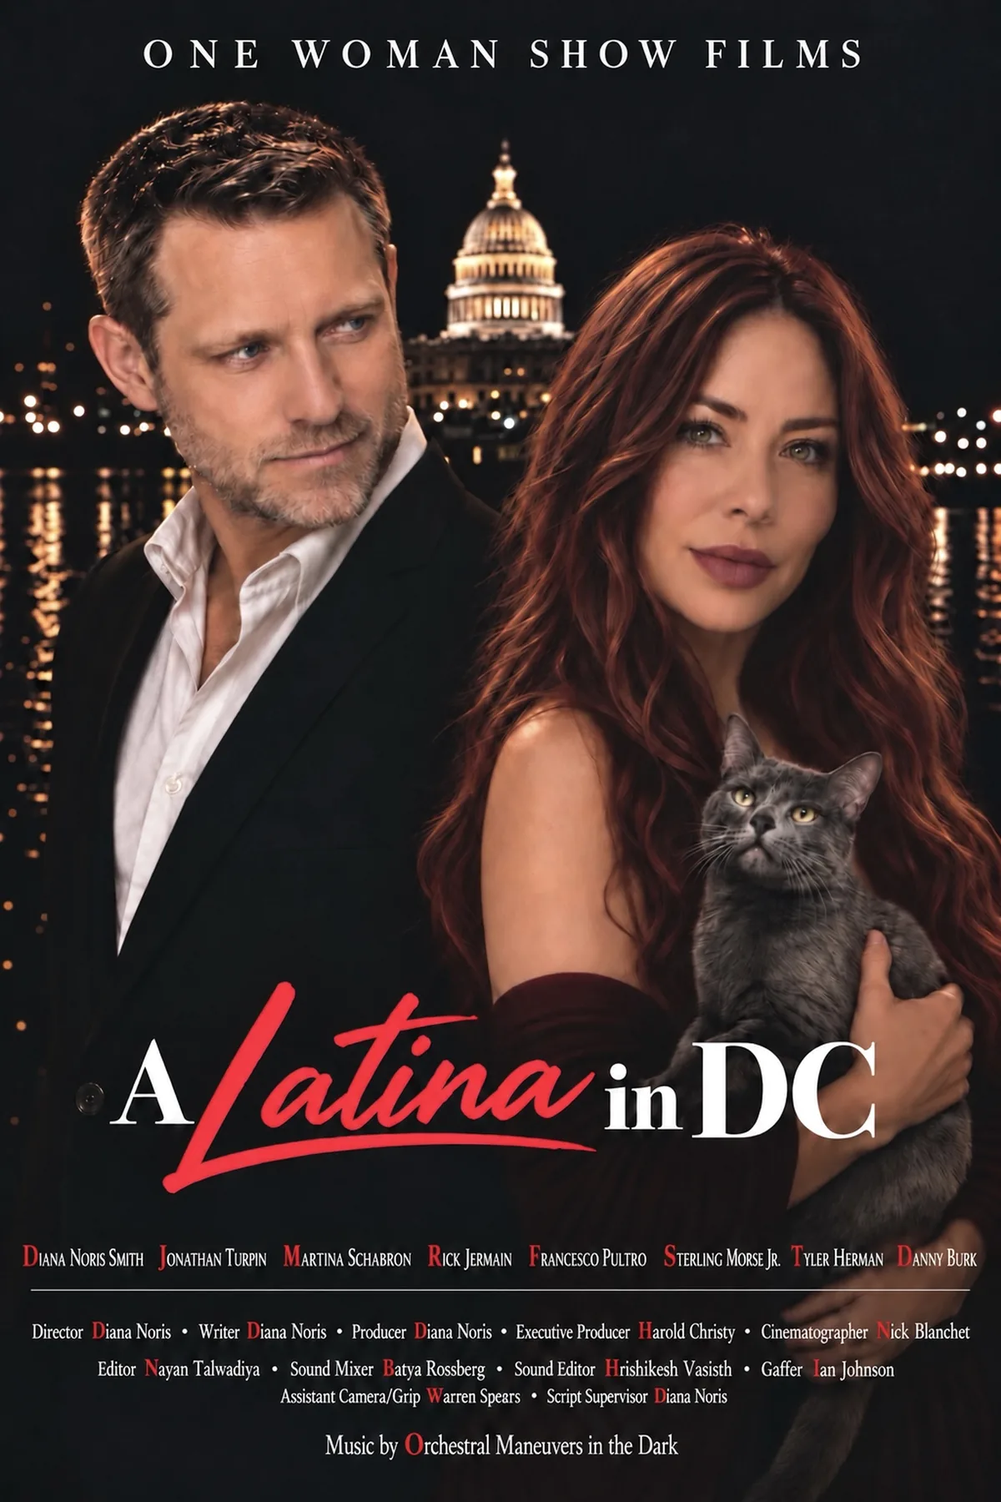
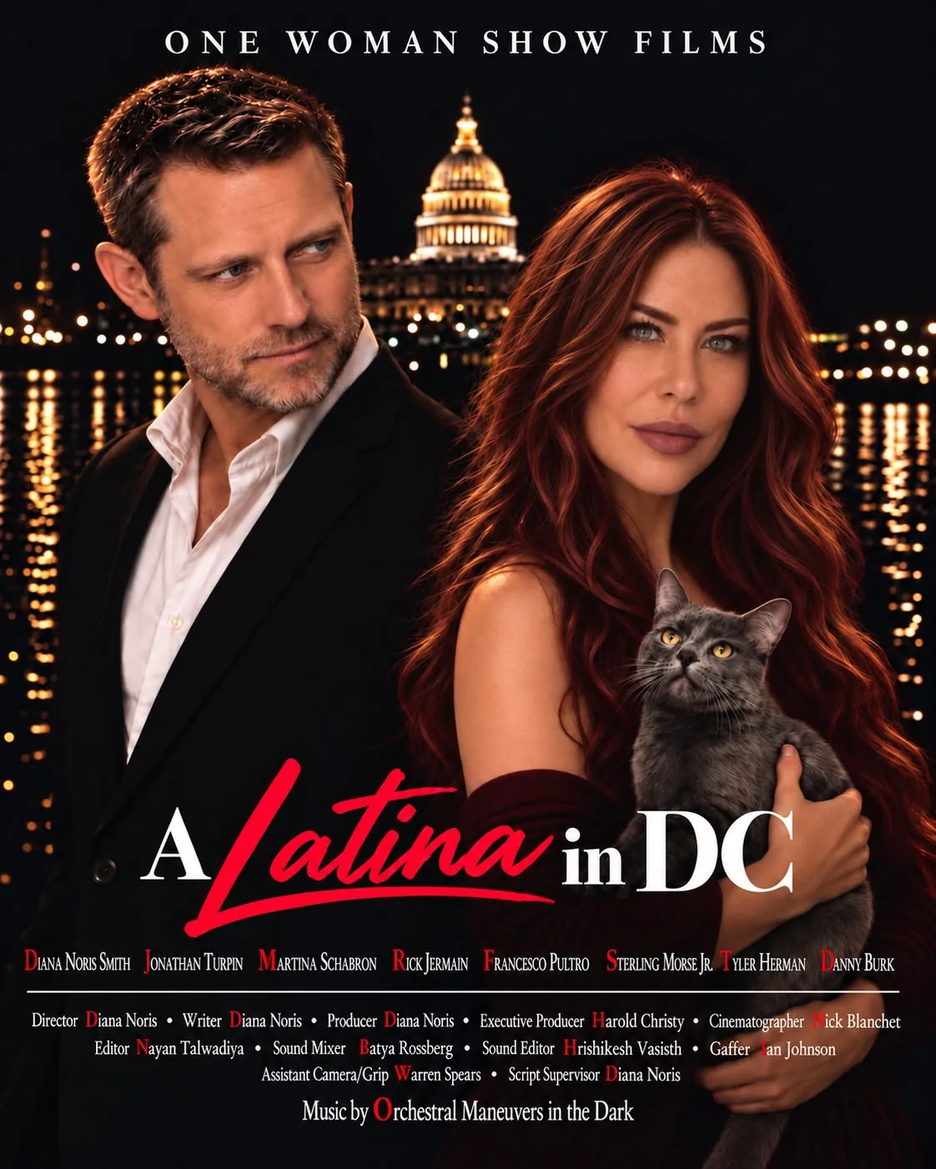
Film: nuevo póster oficial de A Latina in DC (colores correctos)

diff --git a/site/es/cine/index.html b/site/es/cine/index.html
@@ -22,7 +22,7 @@
 <link rel="preconnect" href="https://fonts.googleapis.com">
 <link rel="preconnect" href="https://fonts.gstatic.com" crossorigin>
 <link rel="stylesheet" href="https://fonts.googleapis.com/css2?family=Alumni+Sans:wght@400;600&family=DM+Sans:wght@400;500;700&family=Inter:wght@300;400;500&family=Pinyon+Script&display=swap">
-<link rel="stylesheet" href="/assets/css/styles.css?v=20261020">
+<link rel="stylesheet" href="/assets/css/styles.css?v=20261021">
 <script type="application/ld+json">{"@context": "https://schema.org", "@type": "Organization", "@id": "https://www.diananoris.com/#owsf", "name": "One Woman Show Films", "description": "An independent production company founded by Diana Noris, dedicated to telling bold, character-driven stories through a female and multicultural perspective.", "founder": {"@id": "https://www.diananoris.com/#person"}, "url": "https://www.diananoris.com/film/"}</script>
 <script type="application/ld+json">{"@context": "https://schema.org", "@type": "BreadcrumbList", "itemListElement": [{"@type": "ListItem", "position": 1, "name": "Inicio", "item": "https://www.diananoris.com/es/"}, {"@type": "ListItem", "position": 2, "name": "One Woman Show Films", "item": "https://www.diananoris.com/es/cine/"}]}</script>
 </head>
@@ -67,7 +67,7 @@
 
 <section class="sec alt"><div class="wrap">
   <div class="sec-head reveal"><span class="label">Galería</span><h2 class="display d-lg"><b>Carteles</b></h2></div>
-  <div class="grid-3 reveal" data-gallery><div class="frame"><button class="tile" type="button" data-cap="A Latina in DC 1" data-full="/assets/img/media/poster-1600.webp" aria-label="A Latina in DC – poster 1" style="aspect-ratio:296/442"><img src="/assets/img/media/poster-800.webp" srcset="/assets/img/media/poster-500.webp 500w, /assets/img/media/poster-800.webp 800w, /assets/img/media/poster-960.webp 960w" sizes="(max-width:640px) 100vw, 380px" alt="A Latina in DC – poster 1" loading="lazy" decoding="async" class=""></button></div><div class="frame"><button class="tile" type="button" data-cap="A Latina in DC 2" data-full="/assets/img/media/poster2-1600.webp" aria-label="A Latina in DC – poster 2" style="aspect-ratio:320/449"><img src="/assets/img/media/poster2-800.webp" srcset="/assets/img/media/poster2-500.webp 500w, /assets/img/media/poster2-800.webp 800w, /assets/img/media/poster2-960.webp 960w" sizes="(max-width:640px) 100vw, 380px" alt="A Latina in DC – poster 2" loading="lazy" decoding="async" class=""></button></div><div class="frame"><button class="tile" type="button" data-cap="A Latina in DC 3" data-full="/assets/img/media/owsf-1600.webp" aria-label="A Latina in DC – poster 3" style="aspect-ratio:561/701"><img src="/assets/img/media/owsf-800.webp" srcset="/assets/img/media/owsf-500.webp 500w, /assets/img/media/owsf-800.webp 800w, /assets/img/media/owsf-960.webp 960w" sizes="(max-width:640px) 100vw, 380px" alt="A Latina in DC – poster 3" loading="lazy" decoding="async" class=""></button></div></div>
+  <div class="grid-3 reveal" data-gallery><div class="frame"><button class="tile" type="button" data-cap="A Latina in DC 1" data-full="/assets/img/media/poster-1600.webp" aria-label="A Latina in DC – poster 1" style="aspect-ratio:1122/1402"><img src="/assets/img/media/poster-800.webp" srcset="/assets/img/media/poster-500.webp 500w, /assets/img/media/poster-800.webp 800w, /assets/img/media/poster-960.webp 960w" sizes="(max-width:640px) 100vw, 380px" alt="A Latina in DC – poster 1" loading="lazy" decoding="async" class=""></button></div><div class="frame"><button class="tile" type="button" data-cap="A Latina in DC 2" data-full="/assets/img/media/poster2-1600.webp" aria-label="A Latina in DC – poster 2" style="aspect-ratio:320/449"><img src="/assets/img/media/poster2-800.webp" srcset="/assets/img/media/poster2-500.webp 500w, /assets/img/media/poster2-800.webp 800w, /assets/img/media/poster2-960.webp 960w" sizes="(max-width:640px) 100vw, 380px" alt="A Latina in DC – poster 2" loading="lazy" decoding="async" class=""></button></div><div class="frame"><button class="tile" type="button" data-cap="A Latina in DC 3" data-full="/assets/img/media/owsf-1600.webp" aria-label="A Latina in DC – poster 3" style="aspect-ratio:561/701"><img src="/assets/img/media/owsf-800.webp" srcset="/assets/img/media/owsf-500.webp 500w, /assets/img/media/owsf-800.webp 800w, /assets/img/media/owsf-960.webp 960w" sizes="(max-width:640px) 100vw, 380px" alt="A Latina in DC – poster 3" loading="lazy" decoding="async" class=""></button></div></div>
 </div></section>
 
 <section class="sec"><div class="wrap">
@@ -101,6 +101,6 @@
   <button class="lb-next" type="button" aria-label="Next">›</button>
   <div class="lb-cap"></div>
 </div>
-<script src="/assets/js/main.js?v=20261020" defer></script>
+<script src="/assets/js/main.js?v=20261021" defer></script>
 </body>
 </html>

diff --git a/site/film/index.html b/site/film/index.html
@@ -22,7 +22,7 @@
 <link rel="preconnect" href="https://fonts.googleapis.com">
 <link rel="preconnect" href="https://fonts.gstatic.com" crossorigin>
 <link rel="stylesheet" href="https://fonts.googleapis.com/css2?family=Alumni+Sans:wght@400;600&family=DM+Sans:wght@400;500;700&family=Inter:wght@300;400;500&family=Pinyon+Script&display=swap">
-<link rel="stylesheet" href="/assets/css/styles.css?v=20261020">
+<link rel="stylesheet" href="/assets/css/styles.css?v=20261021">
 <script type="application/ld+json">{"@context": "https://schema.org", "@type": "Organization", "@id": "https://www.diananoris.com/#owsf", "name": "One Woman Show Films", "description": "An independent production company founded by Diana Noris, dedicated to telling bold, character-driven stories through a female and multicultural perspective.", "founder": {"@id": "https://www.diananoris.com/#person"}, "url": "https://www.diananoris.com/film/"}</script>
 <script type="application/ld+json">{"@context": "https://schema.org", "@type": "BreadcrumbList", "itemListElement": [{"@type": "ListItem", "position": 1, "name": "Home", "item": "https://www.diananoris.com/"}, {"@type": "ListItem", "position": 2, "name": "One Woman Show Films", "item": "https://www.diananoris.com/film/"}]}</script>
 </head>
@@ -67,7 +67,7 @@
 
 <section class="sec alt"><div class="wrap">
   <div class="sec-head reveal"><span class="label">Gallery</span><h2 class="display d-lg"><b>Posters</b></h2></div>
-  <div class="grid-3 reveal" data-gallery><div class="frame"><button class="tile" type="button" data-cap="A Latina in DC 1" data-full="/assets/img/media/poster-1600.webp" aria-label="A Latina in DC – poster 1" style="aspect-ratio:296/442"><img src="/assets/img/media/poster-800.webp" srcset="/assets/img/media/poster-500.webp 500w, /assets/img/media/poster-800.webp 800w, /assets/img/media/poster-960.webp 960w" sizes="(max-width:640px) 100vw, 380px" alt="A Latina in DC – poster 1" loading="lazy" decoding="async" class=""></button></div><div class="frame"><button class="tile" type="button" data-cap="A Latina in DC 2" data-full="/assets/img/media/poster2-1600.webp" aria-label="A Latina in DC – poster 2" style="aspect-ratio:320/449"><img src="/assets/img/media/poster2-800.webp" srcset="/assets/img/media/poster2-500.webp 500w, /assets/img/media/poster2-800.webp 800w, /assets/img/media/poster2-960.webp 960w" sizes="(max-width:640px) 100vw, 380px" alt="A Latina in DC – poster 2" loading="lazy" decoding="async" class=""></button></div><div class="frame"><button class="tile" type="button" data-cap="A Latina in DC 3" data-full="/assets/img/media/owsf-1600.webp" aria-label="A Latina in DC – poster 3" style="aspect-ratio:561/701"><img src="/assets/img/media/owsf-800.webp" srcset="/assets/img/media/owsf-500.webp 500w, /assets/img/media/owsf-800.webp 800w, /assets/img/media/owsf-960.webp 960w" sizes="(max-width:640px) 100vw, 380px" alt="A Latina in DC – poster 3" loading="lazy" decoding="async" class=""></button></div></div>
+  <div class="grid-3 reveal" data-gallery><div class="frame"><button class="tile" type="button" data-cap="A Latina in DC 1" data-full="/assets/img/media/poster-1600.webp" aria-label="A Latina in DC – poster 1" style="aspect-ratio:1122/1402"><img src="/assets/img/media/poster-800.webp" srcset="/assets/img/media/poster-500.webp 500w, /assets/img/media/poster-800.webp 800w, /assets/img/media/poster-960.webp 960w" sizes="(max-width:640px) 100vw, 380px" alt="A Latina in DC – poster 1" loading="lazy" decoding="async" class=""></button></div><div class="frame"><button class="tile" type="button" data-cap="A Latina in DC 2" data-full="/assets/img/media/poster2-1600.webp" aria-label="A Latina in DC – poster 2" style="aspect-ratio:320/449"><img src="/assets/img/media/poster2-800.webp" srcset="/assets/img/media/poster2-500.webp 500w, /assets/img/media/poster2-800.webp 800w, /assets/img/media/poster2-960.webp 960w" sizes="(max-width:640px) 100vw, 380px" alt="A Latina in DC – poster 2" loading="lazy" decoding="async" class=""></button></div><div class="frame"><button class="tile" type="button" data-cap="A Latina in DC 3" data-full="/assets/img/media/owsf-1600.webp" aria-label="A Latina in DC – poster 3" style="aspect-ratio:561/701"><img src="/assets/img/media/owsf-800.webp" srcset="/assets/img/media/owsf-500.webp 500w, /assets/img/media/owsf-800.webp 800w, /assets/img/media/owsf-960.webp 960w" sizes="(max-width:640px) 100vw, 380px" alt="A Latina in DC – poster 3" loading="lazy" decoding="async" class=""></button></div></div>
 </div></section>
 
 <section class="sec"><div class="wrap">
@@ -101,6 +101,6 @@
   <button class="lb-next" type="button" aria-label="Next">›</button>
   <div class="lb-cap"></div>
 </div>
-<script src="/assets/js/main.js?v=20261020" defer></script>
+<script src="/assets/js/main.js?v=20261021" defer></script>
 </body>
 </html>

diff --git a/site/es/actuacion/index.html b/site/es/actuacion/index.html
@@ -22,7 +22,7 @@
 <link rel="preconnect" href="https://fonts.googleapis.com">
 <link rel="preconnect" href="https://fonts.gstatic.com" crossorigin>
 <link rel="stylesheet" href="https://fonts.googleapis.com/css2?family=Alumni+Sans:wght@400;600&family=DM+Sans:wght@400;500;700&family=Inter:wght@300;400;500&family=Pinyon+Script&display=swap">
-<link rel="stylesheet" href="/assets/css/styles.css?v=20261020">
+<link rel="stylesheet" href="/assets/css/styles.css?v=20261021">
 <script type="application/ld+json">{"@context": "https://schema.org", "@type": "Person", "@id": "https://www.diananoris.com/#person", "name": "Diana Noris", "alternateName": "Diana Noris Smith", "jobTitle": ["Actress", "Filmmaker", "Producer", "Screenwriter", "Visual artist"], "description": "Diana Noris is a bilingual actress, writer and filmmaker working between Spain and New York, and founder of One Woman Show Films.", "url": "https://www.diananoris.com/", "image": "https://www.diananoris.com/assets/img/headshots/hs-01.webp", "knowsLanguage": ["en", "es"], "workLocation": [{"@type": "Country", "name": "Spain"}, {"@type": "City", "name": "New York"}], "sameAs": ["https://www.instagram.com/what_dianadid", "https://www.youtube.com/user/diananoris", "https://www.facebook.com/Diananoris", "https://www.imdb.com/name/nm4434619/", "https://resumes.actorsaccess.com/Diananoris"], "founder": {"@id": "https://www.diananoris.com/#owsf"}}</script>
 <script type="application/ld+json">{"@context": "https://schema.org", "@type": "BreadcrumbList", "itemListElement": [{"@type": "ListItem", "position": 1, "name": "Inicio", "item": "https://www.diananoris.com/es/"}, {"@type": "ListItem", "position": 2, "name": "Actuación", "item": "https://www.diananoris.com/es/actuacion/"}]}</script>
 <script type="application/ld+json">{"@context": "https://schema.org", "@type": "VideoObject", "name": "Diana Noris – Reel en español", "description": "Diana Noris – Reel en español", "thumbnailUrl": ["https://i.ytimg.com/vi/jsaj-kCF05c/hqdefault.jpg"], "uploadDate": "2026-10-09", "duration": "PT4M2S", "embedUrl": "https://www.youtube.com/embed/jsaj-kCF05c", "inLanguage": "es"}</script>
@@ -119,6 +119,6 @@
   <button class="lb-next" type="button" aria-label="Next">›</button>
   <div class="lb-cap"></div>
 </div>
-<script src="/assets/js/main.js?v=20261020" defer></script>
+<script src="/assets/js/main.js?v=20261021" defer></script>
 </body>
 </html>

diff --git a/site/acting/index.html b/site/acting/index.html
@@ -22,7 +22,7 @@
 <link rel="preconnect" href="https://fonts.googleapis.com">
 <link rel="preconnect" href="https://fonts.gstatic.com" crossorigin>
 <link rel="stylesheet" href="https://fonts.googleapis.com/css2?family=Alumni+Sans:wght@400;600&family=DM+Sans:wght@400;500;700&family=Inter:wght@300;400;500&family=Pinyon+Script&display=swap">
-<link rel="stylesheet" href="/assets/css/styles.css?v=20261020">
+<link rel="stylesheet" href="/assets/css/styles.css?v=20261021">
 <script type="application/ld+json">{"@context": "https://schema.org", "@type": "Person", "@id": "https://www.diananoris.com/#person", "name": "Diana Noris", "alternateName": "Diana Noris Smith", "jobTitle": ["Actress", "Filmmaker", "Producer", "Screenwriter", "Visual artist"], "description": "Diana Noris is a bilingual actress, writer and filmmaker working between Spain and New York, and founder of One Woman Show Films.", "url": "https://www.diananoris.com/", "image": "https://www.diananoris.com/assets/img/headshots/hs-01.webp", "knowsLanguage": ["en", "es"], "workLocation": [{"@type": "Country", "name": "Spain"}, {"@type": "City", "name": "New York"}], "sameAs": ["https://www.instagram.com/what_dianadid", "https://www.youtube.com/user/diananoris", "https://www.facebook.com/Diananoris", "https://www.imdb.com/name/nm4434619/", "https://resumes.actorsaccess.com/Diananoris"], "founder": {"@id": "https://www.diananoris.com/#owsf"}}</script>
 <script type="application/ld+json">{"@context": "https://schema.org", "@type": "BreadcrumbList", "itemListElement": [{"@type": "ListItem", "position": 1, "name": "Home", "item": "https://www.diananoris.com/"}, {"@type": "ListItem", "position": 2, "name": "Acting", "item": "https://www.diananoris.com/acting/"}]}</script>
 <script type="application/ld+json">{"@context": "https://schema.org", "@type": "VideoObject", "name": "Diana Noris – Spanish reel", "description": "Diana Noris – Spanish reel", "thumbnailUrl": ["https://i.ytimg.com/vi/jsaj-kCF05c/hqdefault.jpg"], "uploadDate": "2026-10-09", "duration": "PT4M2S", "embedUrl": "https://www.youtube.com/embed/jsaj-kCF05c", "inLanguage": "es"}</script>
@@ -119,6 +119,6 @@
   <button class="lb-next" type="button" aria-label="Next">›</button>
   <div class="lb-cap"></div>
 </div>
-<script src="/assets/js/main.js?v=20261020" defer></script>
+<script src="/assets/js/main.js?v=20261021" defer></script>
 </body>
 </html>

diff --git a/site/es/index.html b/site/es/index.html
@@ -22,7 +22,7 @@
 <link rel="preconnect" href="https://fonts.googleapis.com">
 <link rel="preconnect" href="https://fonts.gstatic.com" crossorigin>
 <link rel="stylesheet" href="https://fonts.googleapis.com/css2?family=Alumni+Sans:wght@400;600&family=DM+Sans:wght@400;500;700&family=Inter:wght@300;400;500&family=Pinyon+Script&display=swap">
-<link rel="stylesheet" href="/assets/css/styles.css?v=20261020">
+<link rel="stylesheet" href="/assets/css/styles.css?v=20261021">
 <script type="application/ld+json">{"@context": "https://schema.org", "@type": "Person", "@id": "https://www.diananoris.com/#person", "name": "Diana Noris", "alternateName": "Diana Noris Smith", "jobTitle": ["Actress", "Filmmaker", "Producer", "Screenwriter", "Visual artist"], "description": "Diana Noris is a bilingual actress, writer and filmmaker working between Spain and New York, and founder of One Woman Show Films.", "url": "https://www.diananoris.com/", "image": "https://www.diananoris.com/assets/img/headshots/hs-01.webp", "knowsLanguage": ["en", "es"], "workLocation": [{"@type": "Country", "name": "Spain"}, {"@type": "City", "name": "New York"}], "sameAs": ["https://www.instagram.com/what_dianadid", "https://www.youtube.com/user/diananoris", "https://www.facebook.com/Diananoris", "https://www.imdb.com/name/nm4434619/", "https://resumes.actorsaccess.com/Diananoris"], "founder": {"@id": "https://www.diananoris.com/#owsf"}}</script>
 <script type="application/ld+json">{"@context": "https://schema.org", "@type": "Organization", "@id": "https://www.diananoris.com/#owsf", "name": "One Woman Show Films", "description": "An independent production company founded by Diana Noris, dedicated to telling bold, character-driven stories through a female and multicultural perspective.", "founder": {"@id": "https://www.diananoris.com/#person"}, "url": "https://www.diananoris.com/film/"}</script>
 </head>
@@ -91,6 +91,6 @@
   <button class="lb-next" type="button" aria-label="Next">›</button>
   <div class="lb-cap"></div>
 </div>
-<script src="/assets/js/main.js?v=20261020" defer></script>
+<script src="/assets/js/main.js?v=20261021" defer></script>
 </body>
 </html>

diff --git a/site/index.html b/site/index.html
@@ -22,7 +22,7 @@
 <link rel="preconnect" href="https://fonts.googleapis.com">
 <link rel="preconnect" href="https://fonts.gstatic.com" crossorigin>
 <link rel="stylesheet" href="https://fonts.googleapis.com/css2?family=Alumni+Sans:wght@400;600&family=DM+Sans:wght@400;500;700&family=Inter:wght@300;400;500&family=Pinyon+Script&display=swap">
-<link rel="stylesheet" href="/assets/css/styles.css?v=20261020">
+<link rel="stylesheet" href="/assets/css/styles.css?v=20261021">
 <script type="application/ld+json">{"@context": "https://schema.org", "@type": "Person", "@id": "https://www.diananoris.com/#person", "name": "Diana Noris", "alternateName": "Diana Noris Smith", "jobTitle": ["Actress", "Filmmaker", "Producer", "Screenwriter", "Visual artist"], "description": "Diana Noris is a bilingual actress, writer and filmmaker working between Spain and New York, and founder of One Woman Show Films.", "url": "https://www.diananoris.com/", "image": "https://www.diananoris.com/assets/img/headshots/hs-01.webp", "knowsLanguage": ["en", "es"], "workLocation": [{"@type": "Country", "name": "Spain"}, {"@type": "City", "name": "New York"}], "sameAs": ["https://www.instagram.com/what_dianadid", "https://www.youtube.com/user/diananoris", "https://www.facebook.com/Diananoris", "https://www.imdb.com/name/nm4434619/", "https://resumes.actorsaccess.com/Diananoris"], "founder": {"@id": "https://www.diananoris.com/#owsf"}}</script>
 <script type="application/ld+json">{"@context": "https://schema.org", "@type": "Organization", "@id": "https://www.diananoris.com/#owsf", "name": "One Woman Show Films", "description": "An independent production company founded by Diana Noris, dedicated to telling bold, character-driven stories through a female and multicultural perspective.", "founder": {"@id": "https://www.diananoris.com/#person"}, "url": "https://www.diananoris.com/film/"}</script>
 </head>
@@ -91,6 +91,6 @@
   <button class="lb-next" type="button" aria-label="Next">›</button>
   <div class="lb-cap"></div>
 </div>
-<script src="/assets/js/main.js?v=20261020" defer></script>
+<script src="/assets/js/main.js?v=20261021" defer></script>
 </body>
 </html>

diff --git a/site/es/contacto/index.html b/site/es/contacto/index.html
@@ -22,7 +22,7 @@
 <link rel="preconnect" href="https://fonts.googleapis.com">
 <link rel="preconnect" href="https://fonts.gstatic.com" crossorigin>
 <link rel="stylesheet" href="https://fonts.googleapis.com/css2?family=Alumni+Sans:wght@400;600&family=DM+Sans:wght@400;500;700&family=Inter:wght@300;400;500&family=Pinyon+Script&display=swap">
-<link rel="stylesheet" href="/assets/css/styles.css?v=20261020">
+<link rel="stylesheet" href="/assets/css/styles.css?v=20261021">
 <script type="application/ld+json">{"@context": "https://schema.org", "@type": "BreadcrumbList", "itemListElement": [{"@type": "ListItem", "position": 1, "name": "Inicio", "item": "https://www.diananoris.com/es/"}, {"@type": "ListItem", "position": 2, "name": "Contacto", "item": "https://www.diananoris.com/es/contacto/"}]}</script>
 </head>
 <body>
@@ -71,6 +71,6 @@
   <button class="lb-next" type="button" aria-label="Next">›</button>
   <div class="lb-cap"></div>
 </div>
-<script src="/assets/js/main.js?v=20261020" defer></script>
+<script src="/assets/js/main.js?v=20261021" defer></script>
 </body>
 </html>

diff --git a/site/es/prensa/index.html b/site/es/prensa/index.html
@@ -22,7 +22,7 @@
 <link rel="preconnect" href="https://fonts.googleapis.com">
 <link rel="preconnect" href="https://fonts.gstatic.com" crossorigin>
 <link rel="stylesheet" href="https://fonts.googleapis.com/css2?family=Alumni+Sans:wght@400;600&family=DM+Sans:wght@400;500;700&family=Inter:wght@300;400;500&family=Pinyon+Script&display=swap">
-<link rel="stylesheet" href="/assets/css/styles.css?v=20261020">
+<link rel="stylesheet" href="/assets/css/styles.css?v=20261021">
 <script type="application/ld+json">{"@context": "https://schema.org", "@type": "BreadcrumbList", "itemListElement": [{"@type": "ListItem", "position": 1, "name": "Inicio", "item": "https://www.diananoris.com/es/"}, {"@type": "ListItem", "position": 2, "name": "Prensa", "item": "https://www.diananoris.com/es/prensa/"}]}</script>
 </head>
 <body>
@@ -83,6 +83,6 @@
   <button class="lb-next" type="button" aria-label="Next">›</button>
   <div class="lb-cap"></div>
 </div>
-<script src="/assets/js/main.js?v=20261020" defer></script>
+<script src="/assets/js/main.js?v=20261021" defer></script>
 </body>
 </html>

diff --git a/site/es/arte/index.html b/site/es/arte/index.html
@@ -22,7 +22,7 @@
 <link rel="preconnect" href="https://fonts.googleapis.com">
 <link rel="preconnect" href="https://fonts.gstatic.com" crossorigin>
 <link rel="stylesheet" href="https://fonts.googleapis.com/css2?family=Alumni+Sans:wght@400;600&family=DM+Sans:wght@400;500;700&family=Inter:wght@300;400;500&family=Pinyon+Script&display=swap">
-<link rel="stylesheet" href="/assets/css/styles.css?v=20261020">
+<link rel="stylesheet" href="/assets/css/styles.css?v=20261021">
 <script type="application/ld+json">{"@context": "https://schema.org", "@type": "BreadcrumbList", "itemListElement": [{"@type": "ListItem", "position": 1, "name": "Inicio", "item": "https://www.diananoris.com/es/"}, {"@type": "ListItem", "position": 2, "name": "Arte", "item": "https://www.diananoris.com/es/arte/"}]}</script>
 </head>
 <body>
@@ -75,6 +75,6 @@
   <button class="lb-next" type="button" aria-label="Next">›</button>
   <div class="lb-cap"></div>
 </div>
-<script src="/assets/js/main.js?v=20261020" defer></script>
+<script src="/assets/js/main.js?v=20261021" defer></script>
 </body>
 </html>

diff --git a/site/artwork/index.html b/site/artwork/index.html
@@ -22,7 +22,7 @@
 <link rel="preconnect" href="https://fonts.googleapis.com">
 <link rel="preconnect" href="https://fonts.gstatic.com" crossorigin>
 <link rel="stylesheet" href="https://fonts.googleapis.com/css2?family=Alumni+Sans:wght@400;600&family=DM+Sans:wght@400;500;700&family=Inter:wght@300;400;500&family=Pinyon+Script&display=swap">
-<link rel="stylesheet" href="/assets/css/styles.css?v=20261020">
+<link rel="stylesheet" href="/assets/css/styles.css?v=20261021">
 <script type="application/ld+json">{"@context": "https://schema.org", "@type": "BreadcrumbList", "itemListElement": [{"@type": "ListItem", "position": 1, "name": "Home", "item": "https://www.diananoris.com/"}, {"@type": "ListItem", "position": 2, "name": "Artwork", "item": "https://www.diananoris.com/artwork/"}]}</script>
 </head>
 <body>
@@ -75,6 +75,6 @@
   <button class="lb-next" type="button" aria-label="Next">›</button>
   <div class="lb-cap"></div>
 </div>
-<script src="/assets/js/main.js?v=20261020" defer></script>
+<script src="/assets/js/main.js?v=20261021" defer></script>
 </body>
 </html>

diff --git a/site/contact/index.html b/site/contact/index.html
@@ -22,7 +22,7 @@
 <link rel="preconnect" href="https://fonts.googleapis.com">
 <link rel="preconnect" href="https://fonts.gstatic.com" crossorigin>
 <link rel="stylesheet" href="https://fonts.googleapis.com/css2?family=Alumni+Sans:wght@400;600&family=DM+Sans:wght@400;500;700&family=Inter:wght@300;400;500&family=Pinyon+Script&display=swap">
-<link rel="stylesheet" href="/assets/css/styles.css?v=20261020">
+<link rel="stylesheet" href="/assets/css/styles.css?v=20261021">
 <script type="application/ld+json">{"@context": "https://schema.org", "@type": "BreadcrumbList", "itemListElement": [{"@type": "ListItem", "position": 1, "name": "Home", "item": "https://www.diananoris.com/"}, {"@type": "ListItem", "position": 2, "name": "Contact", "item": "https://www.diananoris.com/contact/"}]}</script>
 </head>
 <body>
@@ -71,6 +71,6 @@
   <button class="lb-next" type="button" aria-label="Next">›</button>
   <div class="lb-cap"></div>
 </div>
-<script src="/assets/js/main.js?v=20261020" defer></script>
+<script src="/assets/js/main.js?v=20261021" defer></script>
 </body>
 </html>

diff --git a/site/press/index.html b/site/press/index.html
@@ -22,7 +22,7 @@
 <link rel="preconnect" href="https://fonts.googleapis.com">
 <link rel="preconnect" href="https://fonts.gstatic.com" crossorigin>
 <link rel="stylesheet" href="https://fonts.googleapis.com/css2?family=Alumni+Sans:wght@400;600&family=DM+Sans:wght@400;500;700&family=Inter:wght@300;400;500&family=Pinyon+Script&display=swap">
-<link rel="stylesheet" href="/assets/css/styles.css?v=20261020">
+<link rel="stylesheet" href="/assets/css/styles.css?v=20261021">
 <script type="application/ld+json">{"@context": "https://schema.org", "@type": "BreadcrumbList", "itemListElement": [{"@type": "ListItem", "position": 1, "name": "Home", "item": "https://www.diananoris.com/"}, {"@type": "ListItem", "position": 2, "name": "Press", "item": "https://www.diananoris.com/press/"}]}</script>
 </head>
 <body>
@@ -83,6 +83,6 @@
   <button class="lb-next" type="button" aria-label="Next">›</button>
   <div class="lb-cap"></div>
 </div>
-<script src="/assets/js/main.js?v=20261020" defer></script>
+<script src="/assets/js/main.js?v=20261021" defer></script>
 </body>
 </html>
